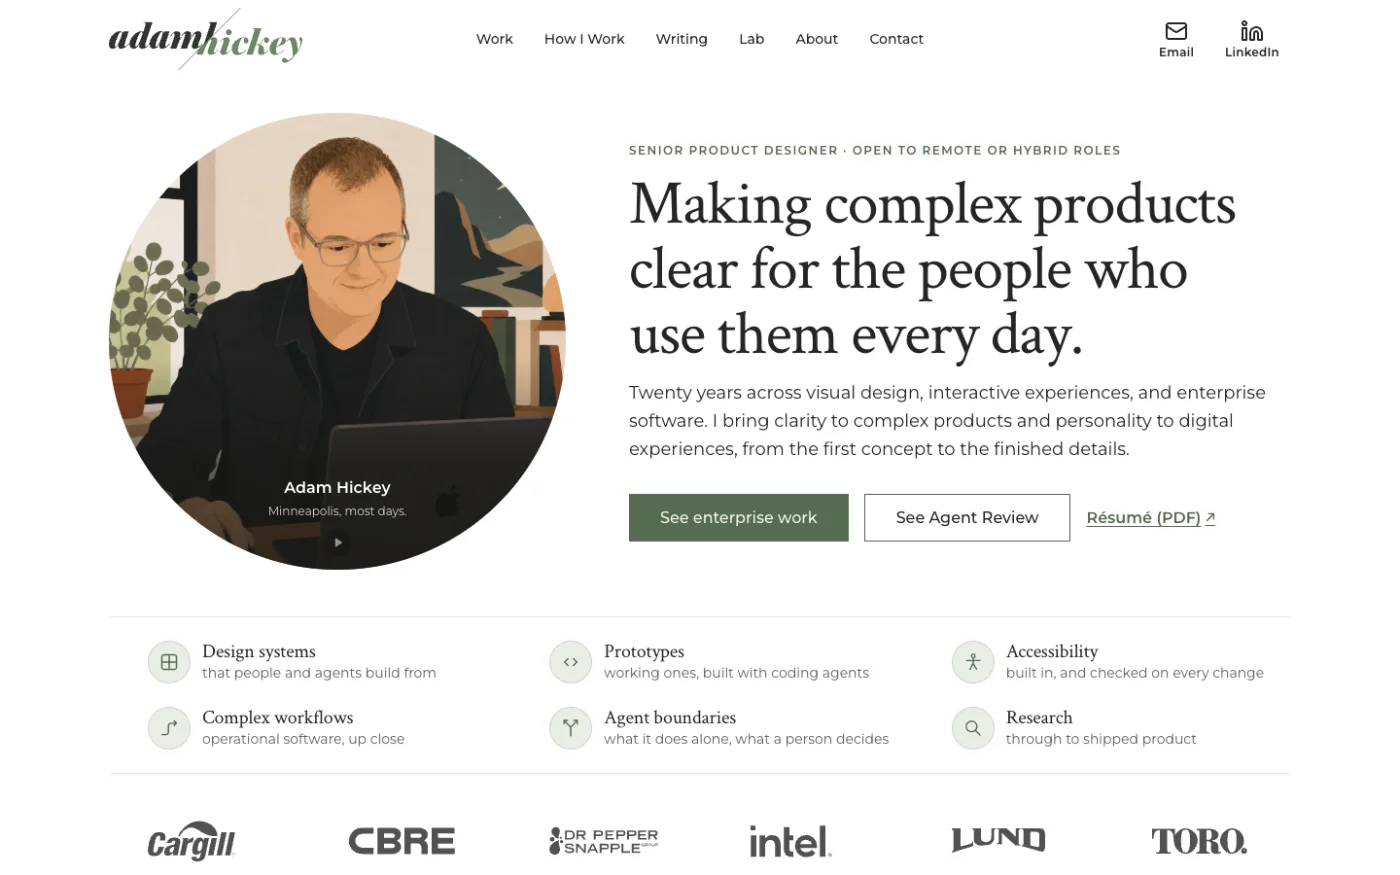
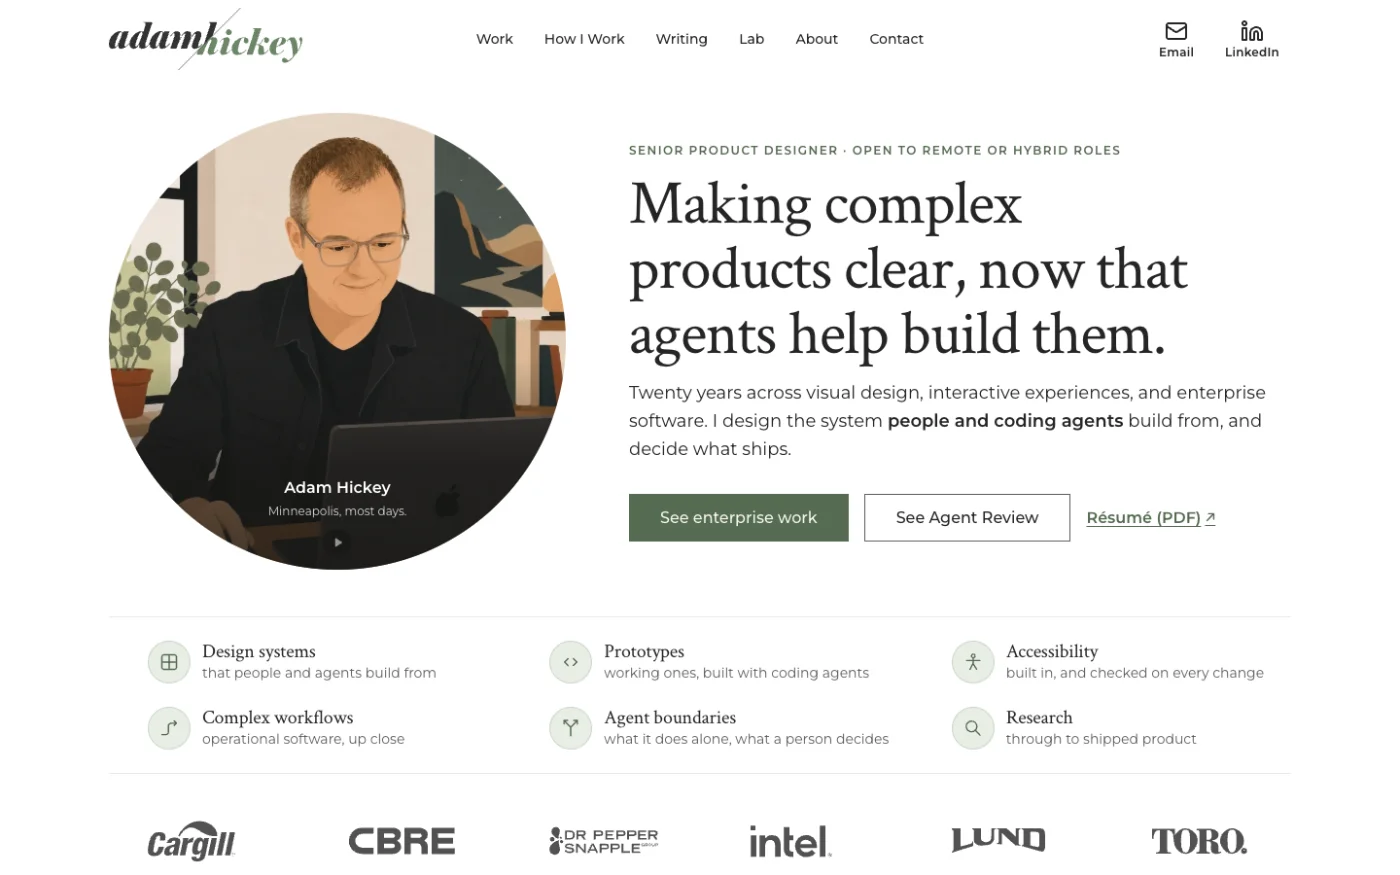
Homepage headline names the shift: "Making complex products clear, now that agents help build them.", and the dek's second sentence is what Adam does about it: "I design the system people and coding agents build from, and decide what ships.", the bold back on the pair. The breadth pair had read as a

Changed region(s): [[0.43, 0.216, 0.8907, 0.432], [0.4607, 0.4629, 0.8907, 0.5246]]

diff --git a/index.html b/index.html
@@ -21,7 +21,7 @@
 
   <meta name="color-scheme" content="light" />
   <meta property="og:title" content="Adam Hickey | Senior Product Designer for Complex Software" />
-  <meta property="og:description" content="Making complex products clear for the people who use them every day. Twenty years across visual design, interactive experiences, and enterprise software: clarity for complex products and personality for digital experiences, from the first concept to the finished details." />
+  <meta property="og:description" content="Making complex products clear, now that agents help build them. Twenty years across visual design, interactive experiences, and enterprise software: I design the system people and coding agents build from, and decide what ships." />
   <meta property="og:type" content="website" />
   <!-- Absolute because scrapers do not resolve a relative og:image, and the
        canonical origin is the production one whichever host is serving this:
@@ -30,7 +30,7 @@
        "How a change reaches the live site". -->
   <link rel="canonical" href="https://adamhickey.com/" />
   <meta property="og:url" content="https://adamhickey.com/" />
-  <meta property="og:image" content="https://adamhickey.com/img/og/index.jpg?v=10" />
+  <meta property="og:image" content="https://adamhickey.com/img/og/index.jpg?v=11" />
   <meta property="og:image:width" content="1200" />
   <meta property="og:image:height" content="630" />
   <meta name="twitter:card" content="summary_large_image" />
@@ -51,7 +51,7 @@
           "jobTitle": "Senior Product Designer",
           "description": "Senior product designer for complex enterprise software, design systems and agentic workflows, who builds what he designs, in Minneapolis.",
           "url": "https://adamhickey.com/",
-          "image": "https://adamhickey.com/img/og/index.jpg?v=10",
+          "image": "https://adamhickey.com/img/og/index.jpg?v=11",
           "email": "mailto:adam@adamhickey.com",
           "address": {
             "@type": "PostalAddress",
@@ -85,7 +85,7 @@
           "name": "Adam Hickey — Product Design",
           "description": "Adam Hickey's independent product design practice in Minneapolis, for complex enterprise software: design systems, modernizing legacy products, and AI product prototypes. Twenty years inside enterprise platforms, design systems, and products that outgrew their original shape.",
           "url": "https://adamhickey.com/",
-          "image": "https://adamhickey.com/img/og/index.jpg?v=10",
+          "image": "https://adamhickey.com/img/og/index.jpg?v=11",
           "founder": {
             "@id": "https://adamhickey.com/#adam"
           },
@@ -398,14 +398,20 @@
                solves, where "distinctive" is what every studio says. Later that
                day Adam found four words too short and the 80px they were set
                at too loud: the line names who the clarity is for, in three
-               lines, and the size is the --type-title-inset it had before. The dek is the twenty years across the three
+               lines, and the size is the --type-title-inset it had before.
+               The same evening Adam read the pair as a step back from the
+               agent work, and the headline names the shift: "Making complex
+               products clear, now that agents help build them." The dek's
+               second sentence is what he does about it, the system people
+               and coding agents build from and the call on what ships, with
+               the bold back on the pair as it was before 2026-10-26. The dek is the twenty years across the three
                kinds of work, then what he brings to each, in 30 words. The
                agents left the dek: Agent Review keeps the second button and
                the lab card, and the eyebrow still says the title a recruiter
                searches. The share card, og:description and llms.txt's summary
                moved with it; the <title> and description are search language
                and stayed. -->
-<h1 class="hero-title">Making complex products clear for the people who use them every day.</h1>
+<h1 class="hero-title">Making complex products clear, now that agents help build them.</h1>
           <!-- ONE PARAGRAPH, since 2026-10-09. The thesis came out: "AI is
                changing the shape of product design" is the one sentence on
                the page every reader already believes, and "I'm exploring
@@ -486,7 +492,7 @@
                whether he had stopped. The dek from before that morning is
                back, bold and all. The building stays where #588 put it
                lower down: About, the Built header and the résumés. -->
-          <p class="hero-invite reveal">Twenty years across visual design, interactive experiences, and enterprise software. I bring clarity to complex products and personality to digital experiences, from the first concept to the finished details.</p>
+          <p class="hero-invite reveal">Twenty years across visual design, interactive experiences, and enterprise software. I design the system <strong>people and coding agents</strong> build from, and decide what ships.</p>
           <!-- THE WORK LEADS, since 2026-09-19. "Start a conversation" was
                the filled button and "See selected work" the ghost beside it:
                two primary asks in one row, and the first of them asking for

diff --git a/case-study/this-site.html b/case-study/this-site.html
@@ -19,7 +19,7 @@
   <meta property="og:url" content="https://adamhickey.com/case-study/this-site.html" />
   <meta property="og:title" content="How I built this site | Adam Hickey" />
   <meta property="og:description" content="How adamhickey.com is built: thirty-eight pages of plain HTML with no framework and no build step, three token files under four normative specs, and eleven checks that measure the rendered page before anything ships." />
-  <meta property="og:image" content="https://adamhickey.com/img/og/this-site.jpg?v=10" />
+  <meta property="og:image" content="https://adamhickey.com/img/og/this-site.jpg?v=11" />
   <meta property="og:image:width" content="1200" />
   <meta property="og:image:height" content="630" />
   <meta name="twitter:card" content="summary_large_image" />
@@ -40,7 +40,7 @@
           "description": "A build write-up for adamhickey.com: thirty-eight pages of plain HTML with no framework and no build step, three token files under four normative specs, and eleven checks that measure the rendered page before anything ships.",
           "url": "https://adamhickey.com/case-study/this-site.html",
           "mainEntityOfPage": "https://adamhickey.com/case-study/this-site.html",
-          "image": "https://adamhickey.com/img/og/this-site.jpg?v=10",
+          "image": "https://adamhickey.com/img/og/this-site.jpg?v=11",
           "datePublished": "2026-09-17",
           "dateModified": "2026-10-26",
           "author": {
@@ -238,8 +238,8 @@
              sits one click away would be the one dishonest picture here. -->
         <figure class="build-shot">
           <div class="build-laptop"><div class="build-laptop-lid">
-              <img src="../img/site/this-site.webp?v=11" width="1400" height="875" fetchpriority="high" decoding="async"
-                   alt="The homepage of this site at laptop width: the wordmark and six section links across the top, the portrait in a circle on the left, and on the right the eyebrow Senior Product Designer &middot; Open to remote or hybrid roles over the title &ldquo;Making complex products clear for the people who use them every day.&rdquo;, a three-line dek beginning &ldquo;Twenty years across visual design, interactive experiences, and enterprise software.&rdquo;, a green See enterprise work button, an outlined See Agent Review button and a R&eacute;sum&eacute; link. Under the pair, six facts in two rows of three, each with a small line icon in a pale disc, among them Agent boundaries, and a row of six client wordmarks along the bottom." />
+              <img src="../img/site/this-site.webp?v=12" width="1400" height="875" fetchpriority="high" decoding="async"
+                   alt="The homepage of this site at laptop width: the wordmark and six section links across the top, the portrait in a circle on the left, and on the right the eyebrow Senior Product Designer &middot; Open to remote or hybrid roles over the title &ldquo;Making complex products clear, now that agents help build them.&rdquo;, a three-line dek beginning &ldquo;Twenty years across visual design, interactive experiences, and enterprise software.&rdquo;, a green See enterprise work button, an outlined See Agent Review button and a R&eacute;sum&eacute; link. Under the pair, six facts in two rows of three, each with a small line icon in a pale disc, among them Agent boundaries, and a row of six client wordmarks along the bottom." />
             </div></div>
         </figure>
 
